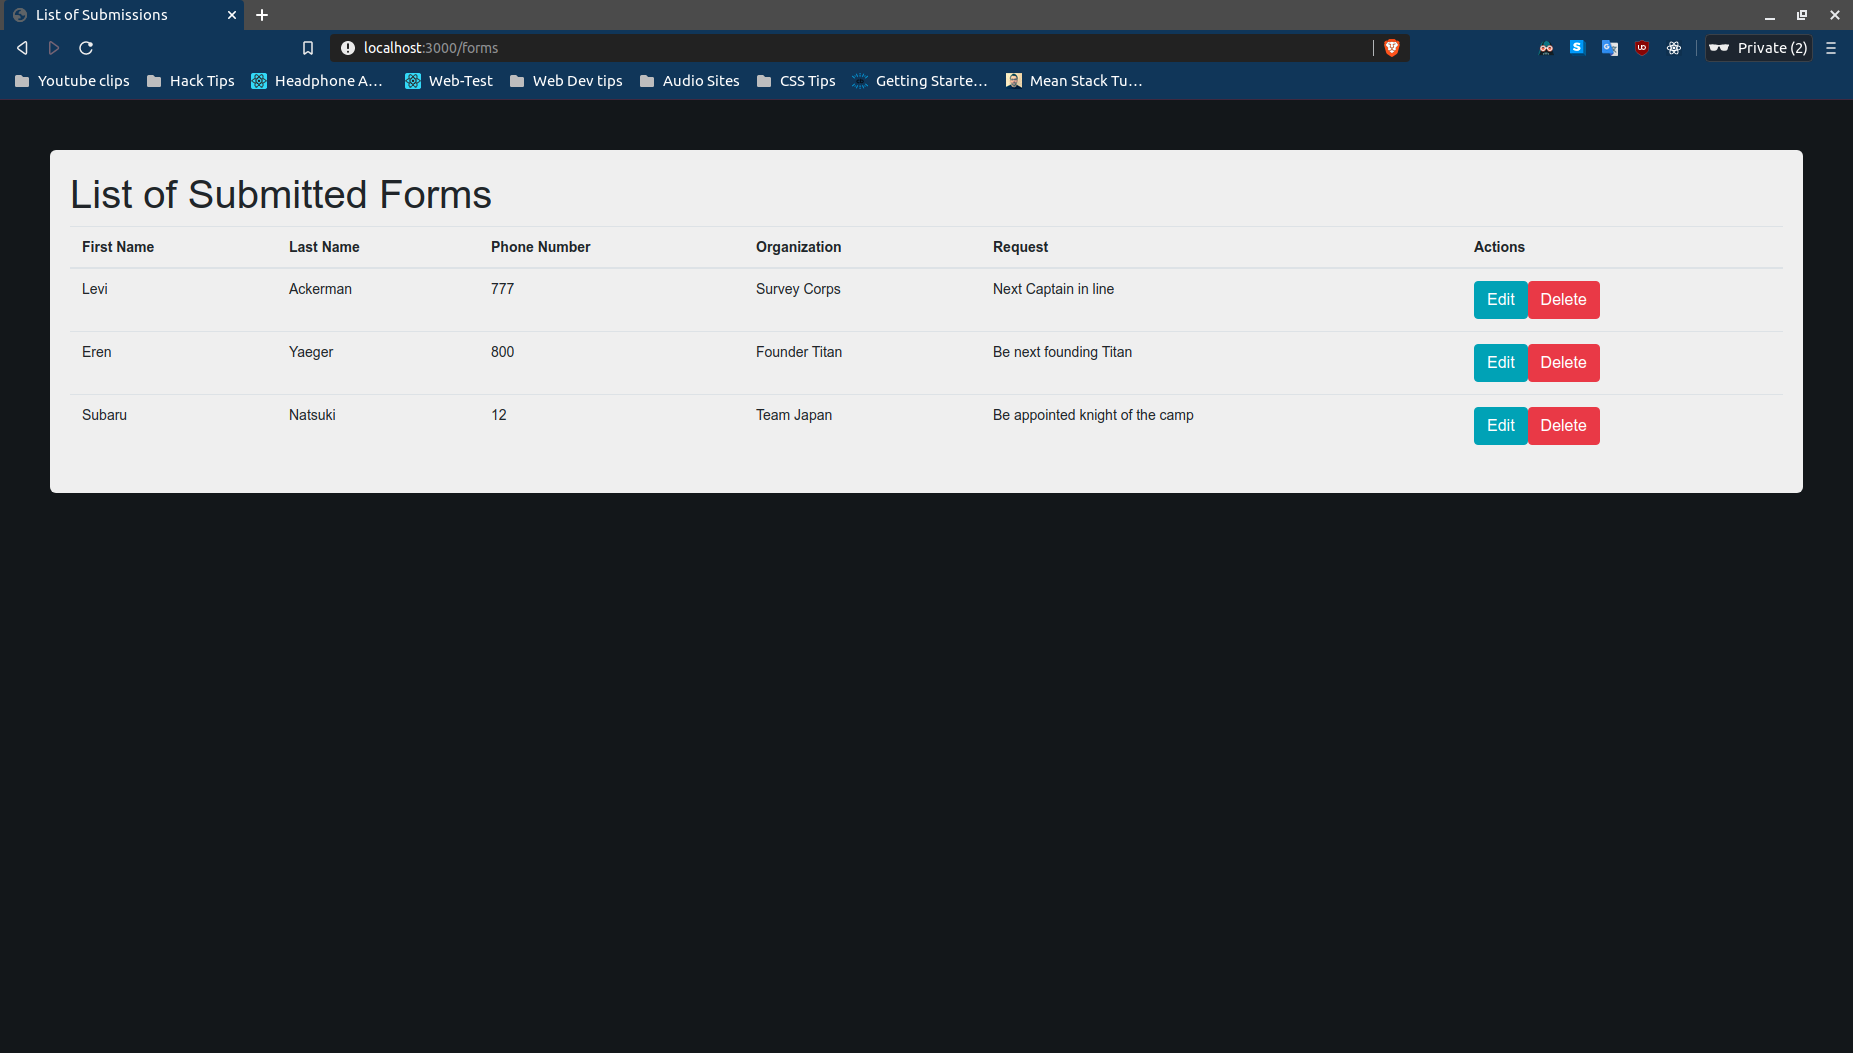
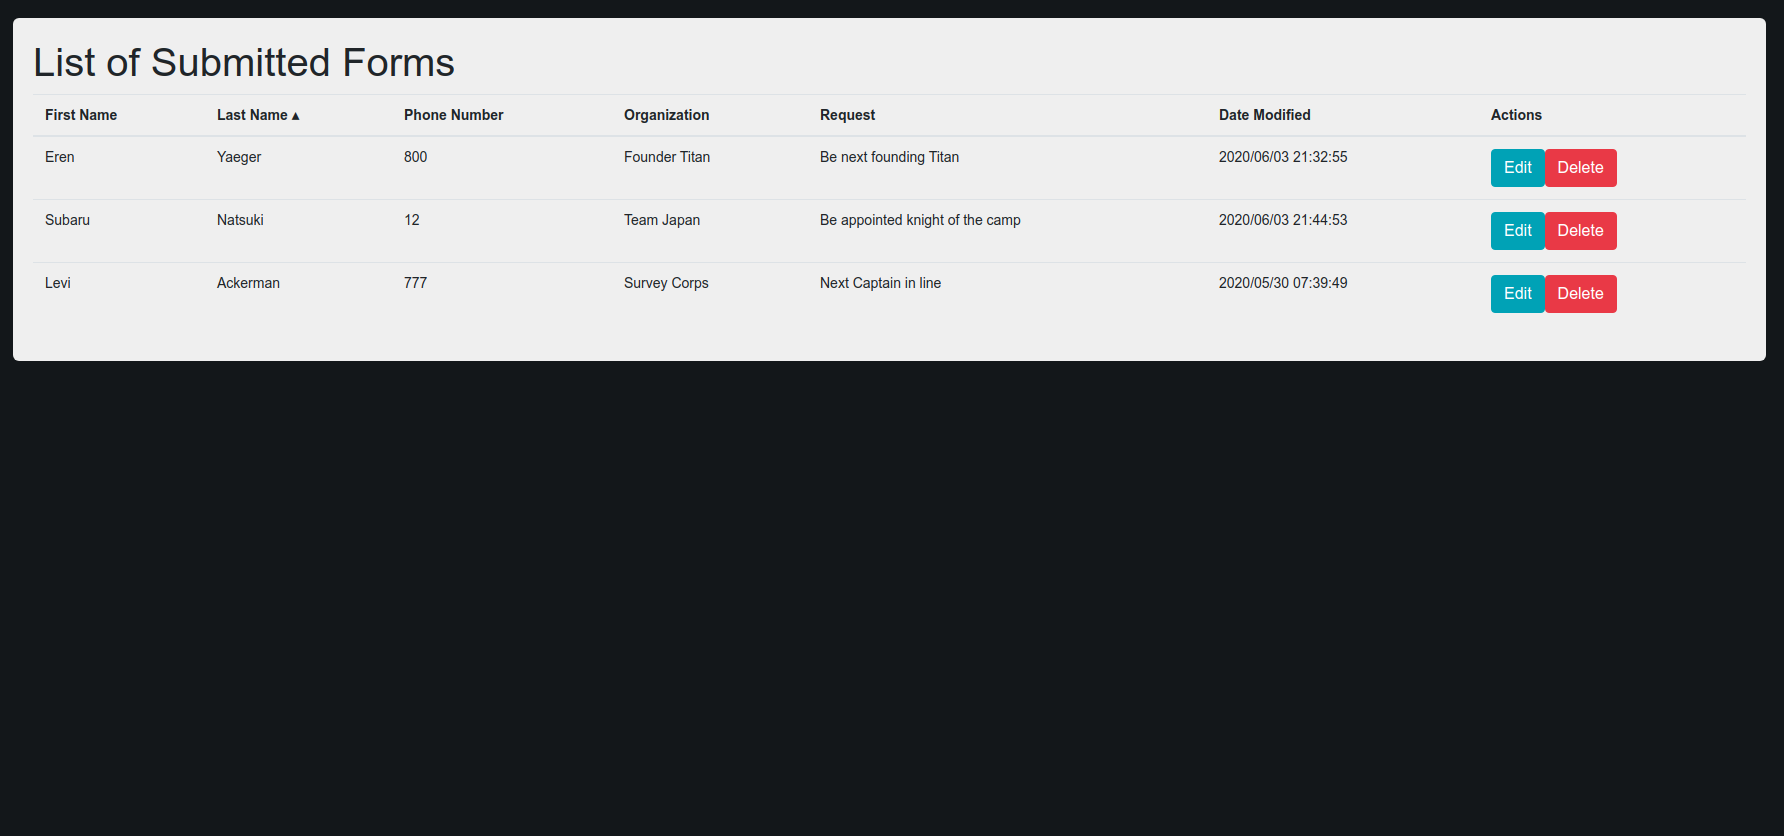
Added arrows for sorting table

diff --git a/public/stylesheets/style.css b/public/stylesheets/style.css
@@ -76,6 +76,26 @@ body {
 	border-radius: 6px;
 }
 
+/* For default sorttable.js icon removed ======================== */
+
+table.sortable th::after, th.sorttable_sorted::after, th.sorttable_sorted_reverse::after {
+  content: " ";
+  display: inline-block;
+  width: 24px;
+  height: 24px;
+}
+th.sorttable_sorted::after {
+  /* background: url(my-sorted-icon.png);*/
+  background: none;
+  background-size: contain;
+}
+th.sorttable_sorted_reverse::after {
+  /*background: url(my-sorted-reversed-icon.png);*/
+  background: none;
+  background-size: cover;
+}
+#sorttable_sortfwdind, #sorttable_sortrevind { display: none; } 
+
 /* This section is for the success.ejs components ======================== */
 .alert-success {
 	background-color: #0C3214;
